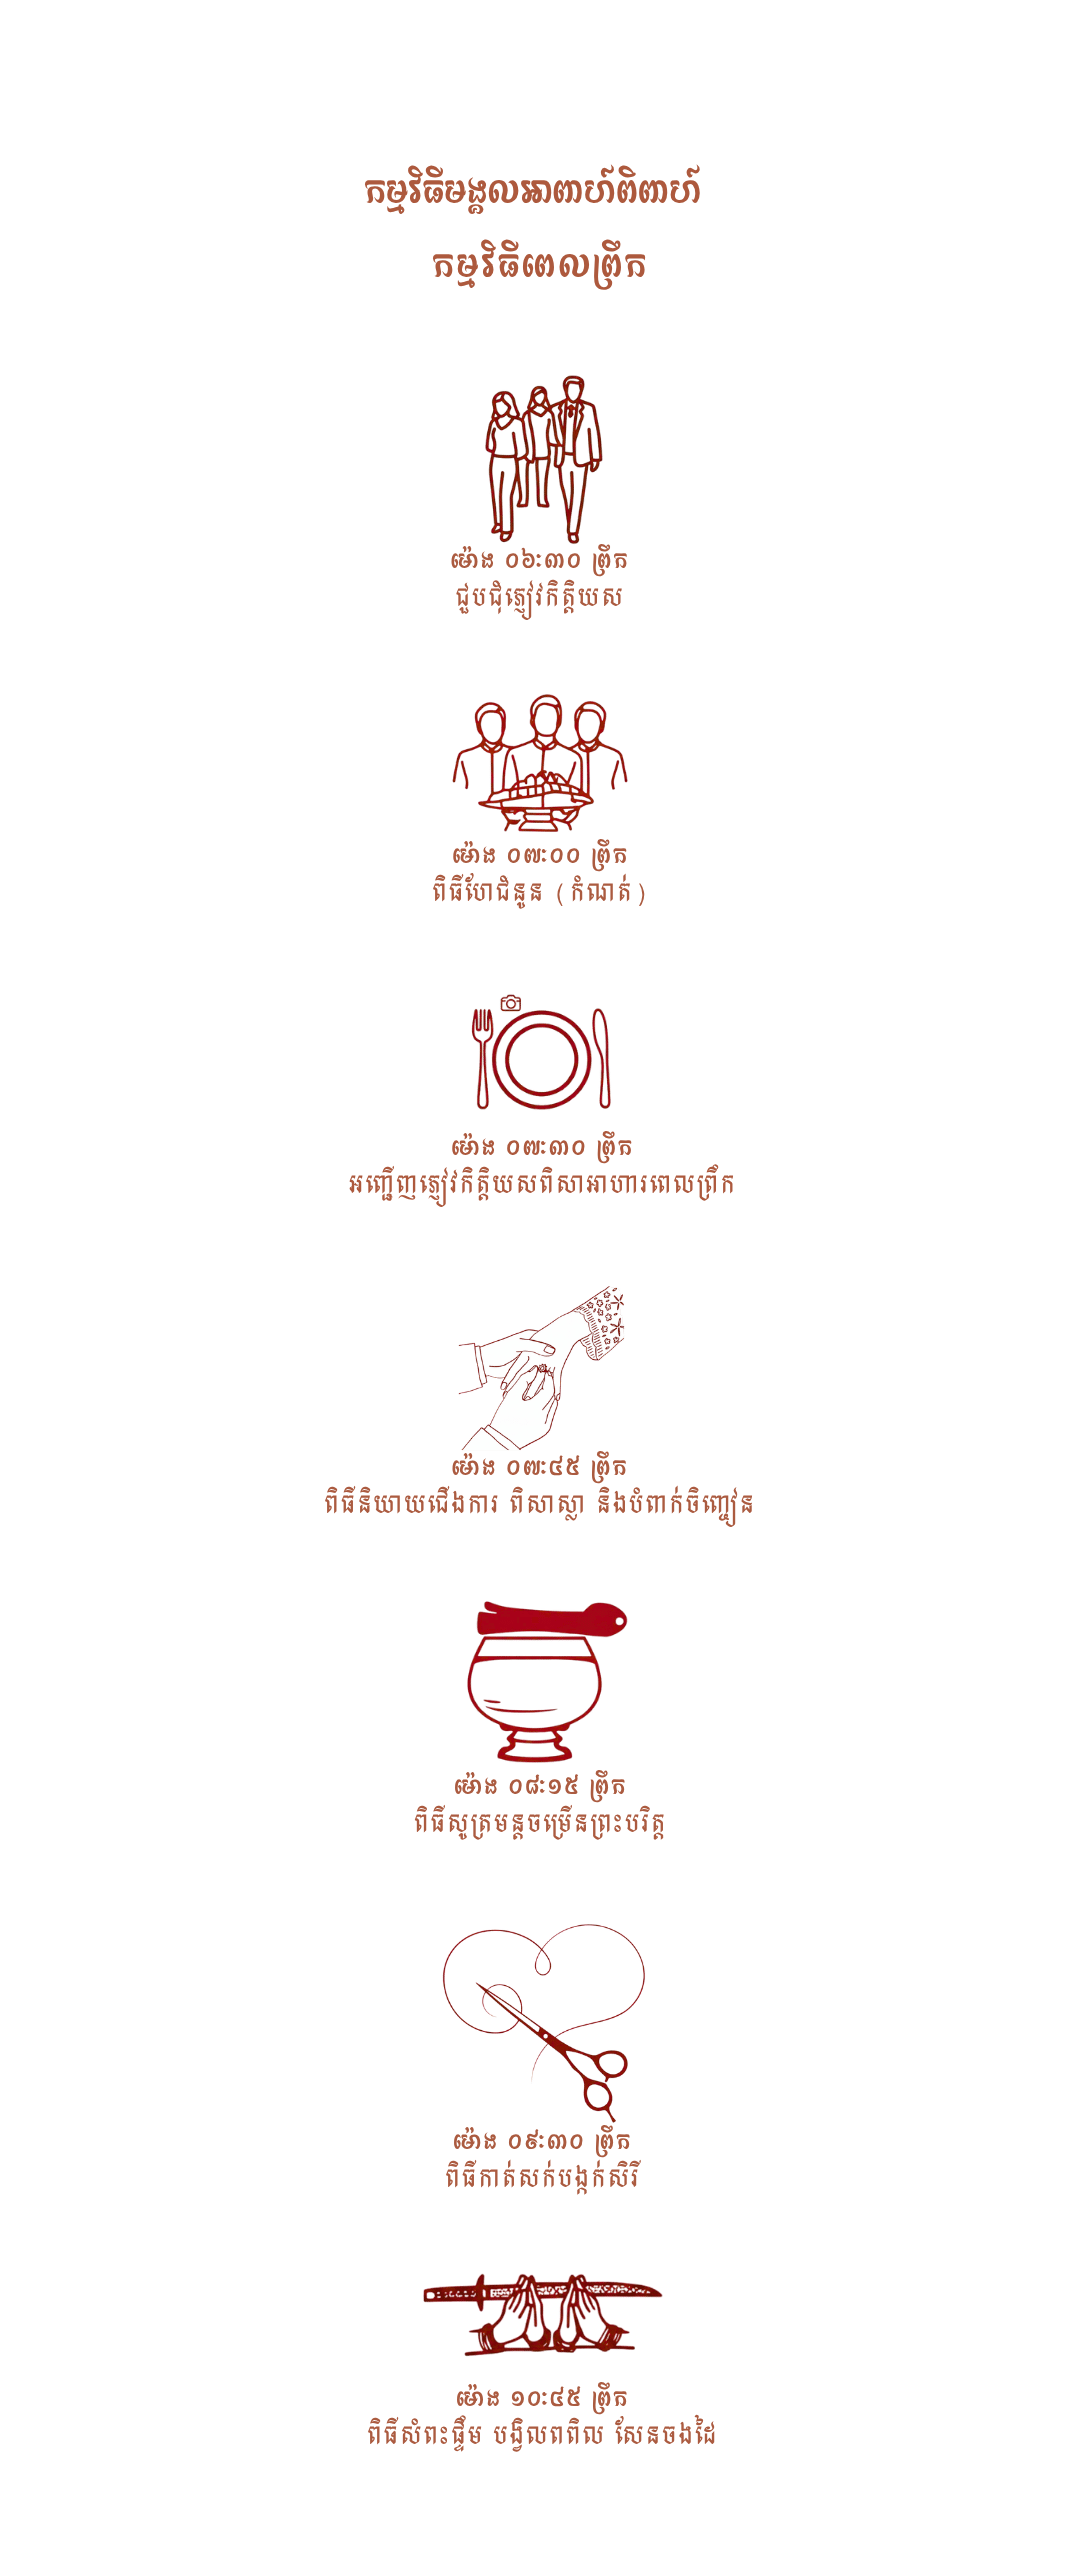
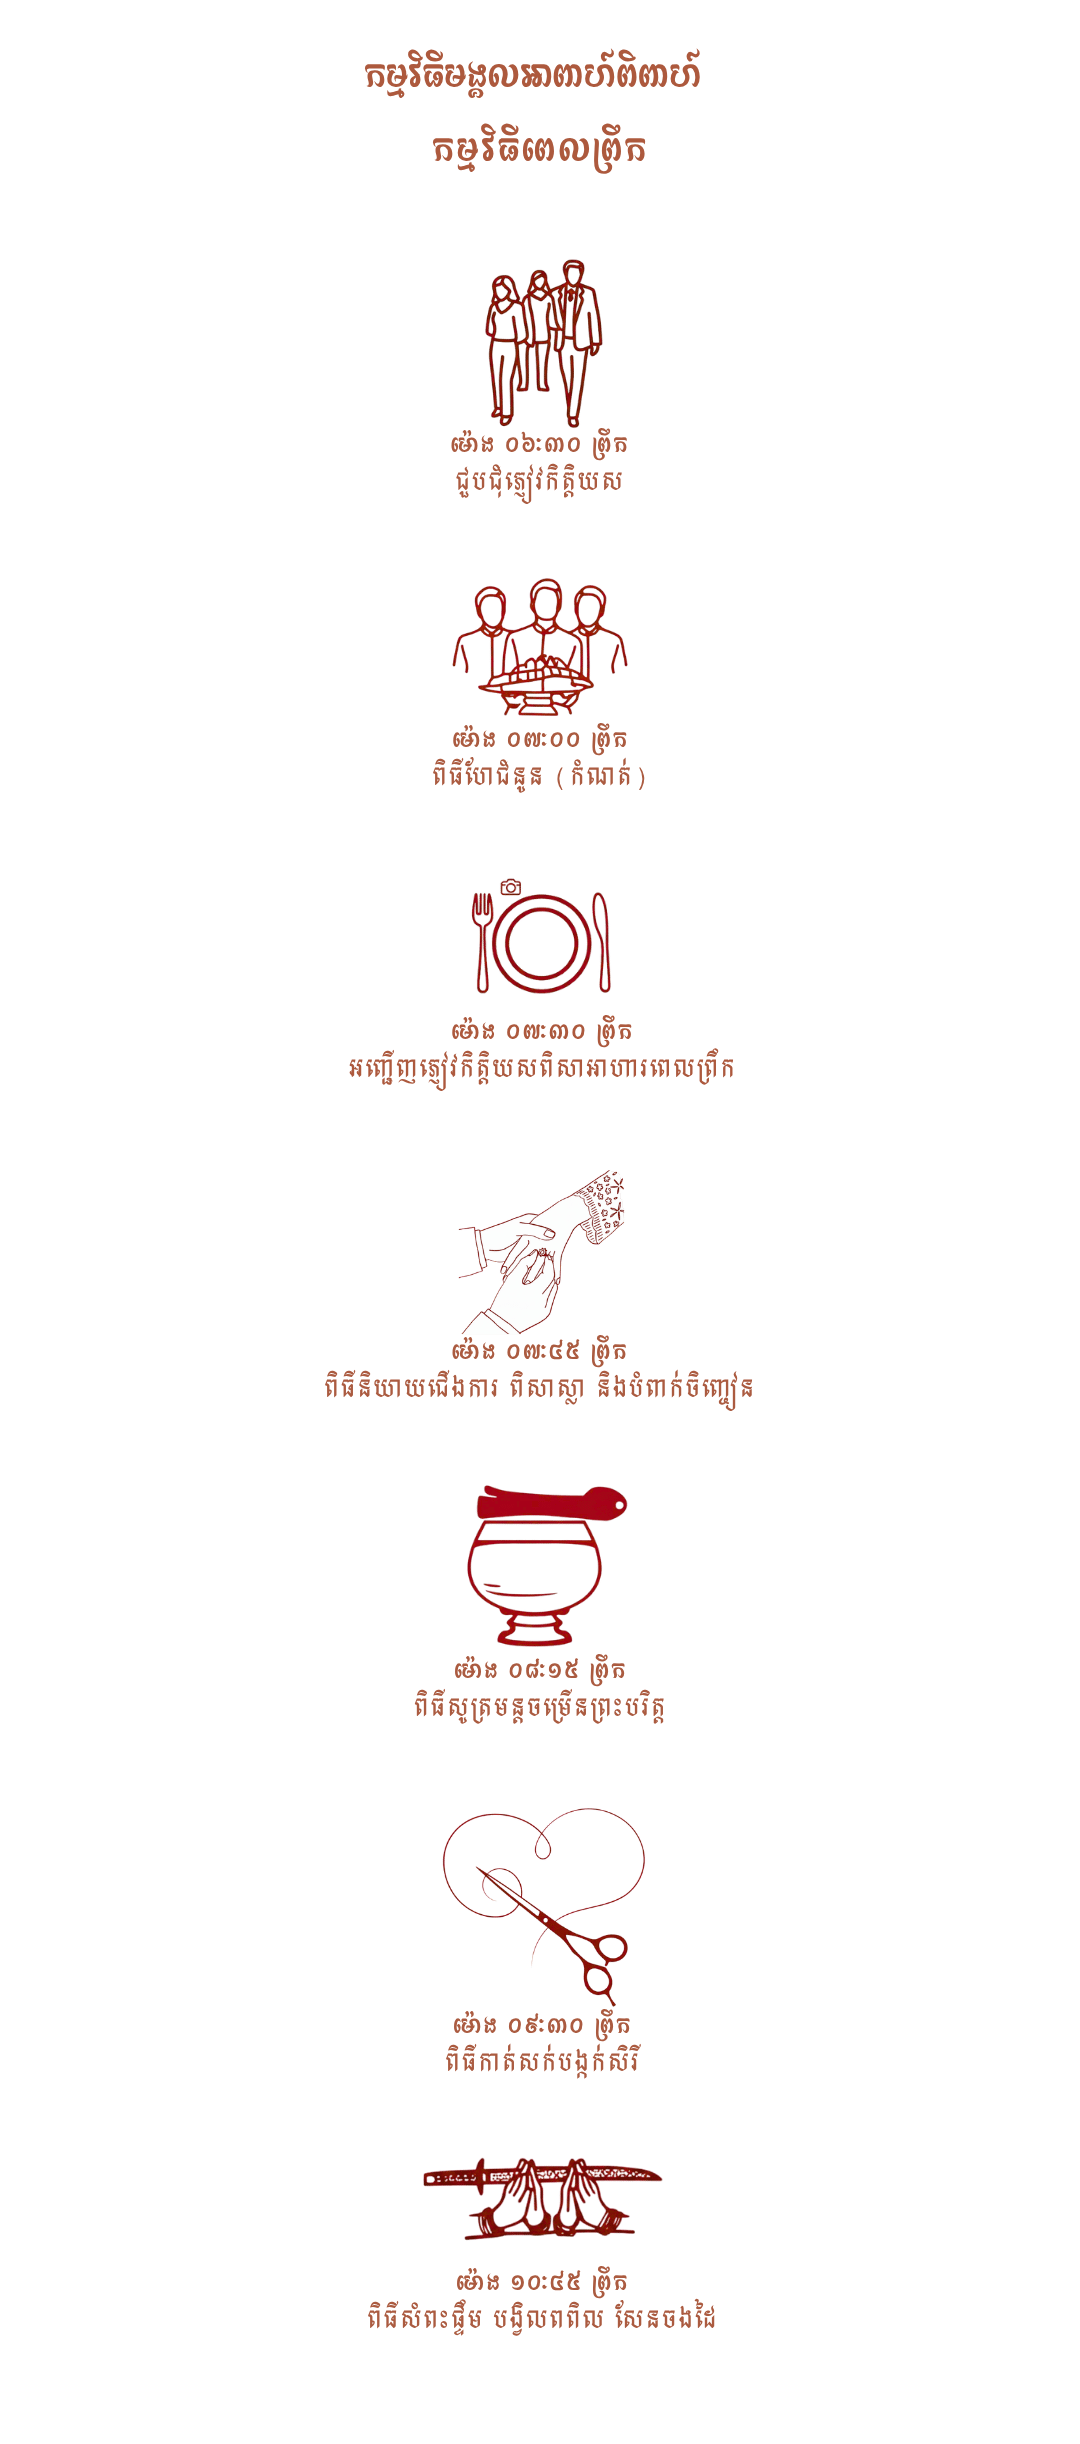
Auto update: 2025-11-03 14:33:35

Changed region(s): [[0.3056, 0.0, 0.7028, 0.7152], [0.3361, 0.7463, 0.6722, 0.964], [0.5806, 0.7463, 0.6111, 0.7774]]

diff --git a/src/components/DescriptionSection.jsx b/src/components/DescriptionSection.jsx
@@ -285,7 +285,7 @@ export default function DescriptionSection({
 
 
 
-        <figure className="-mt-[4.5rem]">
+        <figure className="-mt-[5rem]">
           <img src={afternoon_event_image} alt="Afternoon event" loading="lazy" decoding="async" />
         </figure> 
 
